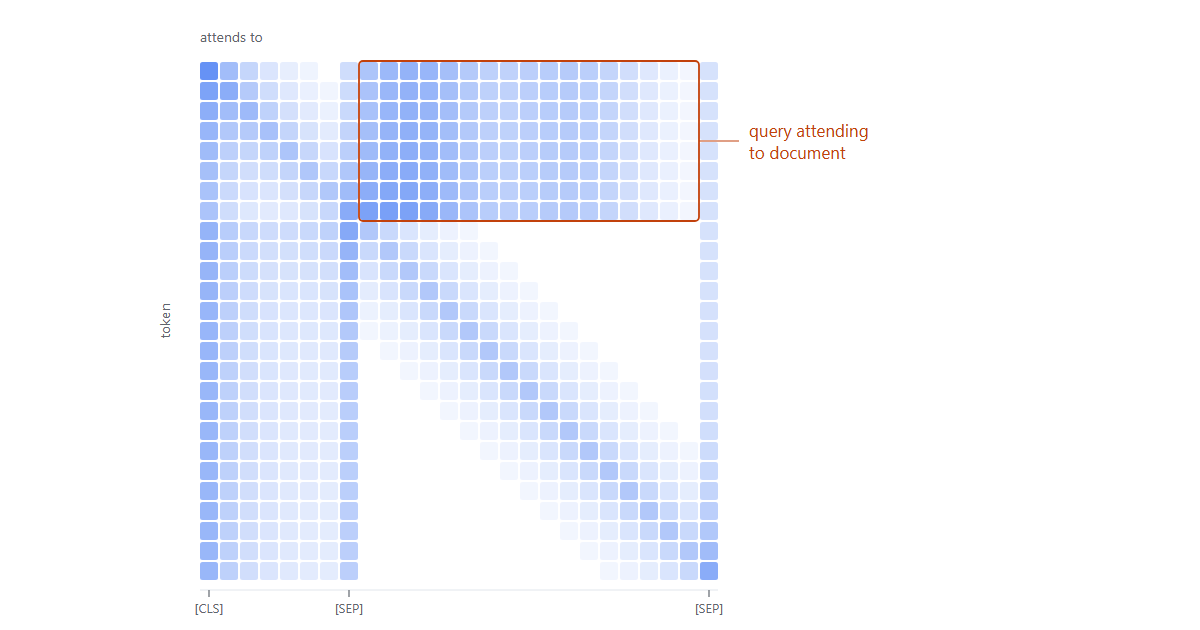
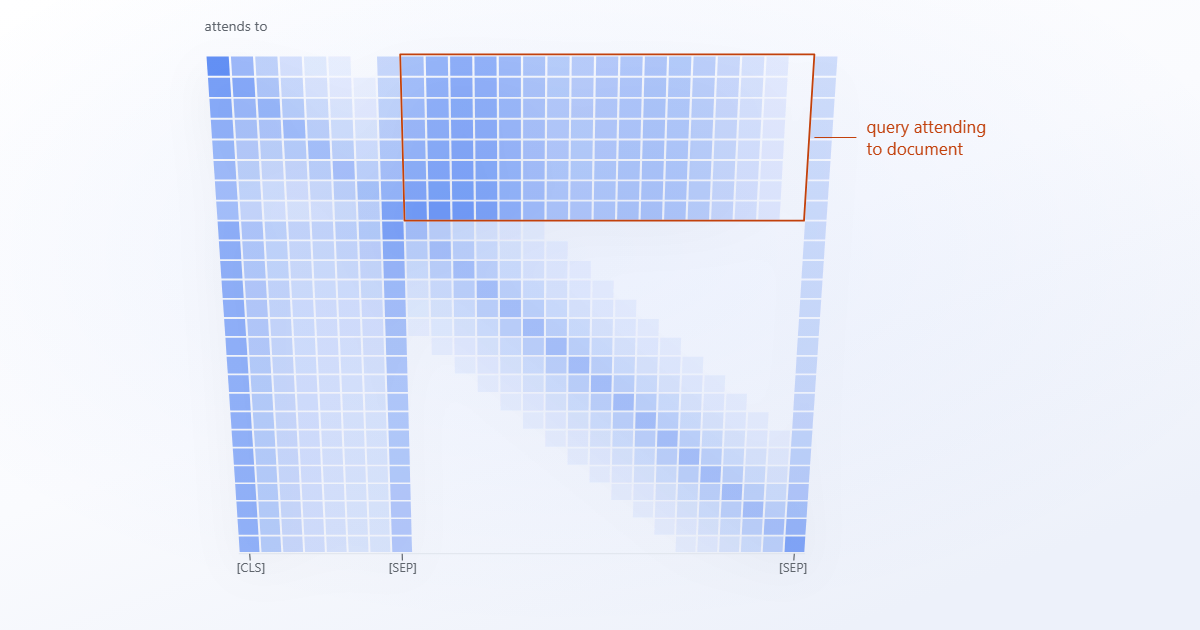
Cover: put the plane in perspective and give the page depth
Flat and dead-on read as a spreadsheet. The matrix now sits on a plane
tilted 34 degrees away from the viewer, with a soft lift under it and a
very light diagonal wash plus a barely-there blue bloom behind it.

The projection is real, not a skew. Every cell is emitted as a
quadrilateral whose four corners went through the same perspective
transform, so the far edge is genuinely narrower than the near one and
the columns converge. A CSS skew keeps rows parallel and reads as a
distorted rectangle rather than a receding surface. Doing it per-cell
costs nothing here because the cells were being generated anyway.

Two passes to get the geometry right. The first used 26 degrees with the
camera at 1250 and the plane overflowed the canvas as a funnel, with the
near edge far wider than the far one. A square matrix barely tilted is
still nearly square, and 630px of canvas leaves about 480 for it, so the
tilt has to be steeper to foreshorten it into the frame. Pushing the
camera to 3000 then makes the convergence a hint rather than a effect.

Axis ticks and their labels are projected onto the plane too, so they
lean with it instead of floating in front of it. The annotation stays
flat, which puts it in front and makes the depth read.

Changed region(s): [[0.1233, 0.0302, 0.8325, 0.9952], [0.1542, 0.9651, 0.185, 0.9952]]

diff --git a/scripts/make-cover-attention.py b/scripts/make-cover-attention.py
@@ -1,30 +1,57 @@
-"""Draw the cover as an attention matrix, with no prose on it.
+"""Draw the cover: one attention head, in perspective, with no prose on it.
 
-One head over `[CLS] query [SEP] document [SEP]`. The block where query rows
-attend to document columns is the entire reason a cross-encoder exists, so it
-is the only thing annotated.
+The subject is a square of attention weights over `[CLS] query [SEP] document
+[SEP]`. The block where query rows attend to document columns is the entire
+reason a cross-encoder exists, so it is the only thing annotated. Everything
+else on the image is an axis label.
 
-Single hue, because a two-hue heatmap encodes a category that is not there. The
-warm colour appears once, as a hairline around that block.
+Single hue. A two-colour heatmap encodes a category that is not there, so the
+warm colour appears exactly once, around that block.
+
+The plane is tilted and genuinely projected rather than skewed. Every cell is
+emitted as a quadrilateral whose four corners went through the same perspective
+transform, so the far edge is narrower than the near one and the grid converges
+the way a surface does. A CSS skew keeps rows parallel and reads as a distorted
+rectangle instead of a receding plane.
 
 Deterministic: the pattern is a fixed formula, so rerunning gives the same image.
+
+    python scripts/make-cover-attention.py
 """
+from __future__ import annotations
+
 import math
 from pathlib import Path
 
-OUT = Path("C:/Users/admin/Desktop/workspace/personal/projects/personal-blog"
-           "/public/covers/i-wrote-a-transformer-by-hand.svg")
+OUT = Path(__file__).resolve().parents[1] / "public" / "covers" / "i-wrote-a-transformer-by-hand.svg"
 
 N = 26                       # tokens per axis
-CELL, GAP = 18.0, 2.0
 SEP1, SEP2 = 7, 25           # [CLS] q0..q5 [SEP] d0..d16 [SEP]
-SIZE = N * CELL + (N - 1) * GAP
-# Matrix and annotation are one composition, centred together: 518 + 40 + 240
-# leaves an equal 200px margin either side.
-X0 = 200
-Y0 = (630 - SIZE) / 2 + 6
+STEP = 23.0                  # cell pitch on the plane, before projection
+INSET = 2.1                  # gap between cells
 
-MUTED, RULE, BLUE, WARM = "#5f656d", "#e1e6ec", "#004aef", "#c2410c"
+# A square matrix barely tilted is still nearly square, and 630px of canvas
+# leaves about 480 for it. More tilt foreshortens it enough to fit; a far
+# camera then keeps the convergence subtle rather than funnel-shaped.
+TILT = math.radians(34)      # how far the plane leans away from the viewer
+DIST = 3000.0                # camera distance; smaller exaggerates the convergence
+CX, CY = 522.0, 318.0        # where the centre of the plane lands on the canvas
+
+MUTED, RULE, BLUE, WARM = "#5f656d", "#dfe4ec", "#004aef", "#c2410c"
+SPAN = (N - 1) * STEP
+
+
+def project(u: float, v: float) -> tuple[float, float]:
+    """Plane coordinate (column, row) to canvas coordinate.
+
+    The plane is rotated about the horizontal axis, so a row further down the
+    matrix is also further away and its scale factor shrinks.
+    """
+    x = u * STEP - SPAN / 2
+    y0 = v * STEP - SPAN / 2
+    y, z = y0 * math.cos(TILT), y0 * math.sin(TILT)
+    s = DIST / (DIST + z)
+    return CX + x * s, CY + y * s
 
 
 def weight(i: int, j: int) -> float:
@@ -43,82 +70,100 @@ def weight(i: int, j: int) -> float:
         w += 0.10
     if i <= SEP1 and SEP1 < j < SEP2:
         # Two loci, not one. A query term usually matches in more than one
-        # place, and a single narrow peak left most of the outlined block
-        # empty, which made the annotation point at white space.
+        # place, and a single narrow peak left most of the outlined block empty.
         w += 0.40 * math.exp(-((j - SEP1 - 3) ** 2) / 14)
         w += 0.28 * math.exp(-((j - SEP1 - 11) ** 2) / 20)
     return min(1.0, w)
 
 
-def pos(k: int) -> float:
-    return k * (CELL + GAP)
+def quad(i: int, j: int) -> str:
+    k = INSET / STEP / 2
+    corners = [(j - 0.5 + k, i - 0.5 + k), (j + 0.5 - k, i - 0.5 + k),
+               (j + 0.5 - k, i + 0.5 - k), (j - 0.5 + k, i + 0.5 - k)]
+    return " ".join("{:.1f},{:.1f}".format(*project(u, v)) for u, v in corners)
 
 
 cells = []
 for i in range(N):
     for j in range(N):
         o = weight(i, j)
-        if o < 0.045:
+        if o < 0.05:
             continue
         cells.append(
-            f'<rect class="c" x="{X0 + pos(j):.1f}" y="{Y0 + pos(i):.1f}" '
-            f'width="{CELL}" height="{CELL}" rx="2.5" fill="{BLUE}" '
-            f'style="--o:{o:.3f};animation-delay:{(i + j) * 0.018:.2f}s"/>'
+            f'<polygon class="c" points="{quad(i, j)}" fill="{BLUE}" '
+            f'style="--o:{o:.3f};animation-delay:{(i + j) * 0.017:.2f}s"/>'
         )
 
-bx, by = X0 + pos(SEP1 + 1) - GAP / 2, Y0 - GAP / 2
-bw, bh = pos(SEP2 - SEP1 - 1), pos(SEP1 + 1)
+block_pts = [project(SEP1 + 0.5, -0.55), project(SEP2 - 0.5, -0.55),
+             project(SEP2 - 0.5, SEP1 + 0.5), project(SEP1 + 0.5, SEP1 + 0.5)]
+block = " ".join(f"{x:.1f},{y:.1f}" for x, y in block_pts)
+lead_x = block_pts[1][0]
+lead_y = (block_pts[1][1] + block_pts[2][1]) / 2
 
+ticks = ""
+for k in (0, SEP1, SEP2):
+    x1, y1 = project(k, N - 0.45)
+    x2, y2 = project(k, N - 0.05)
+    ticks += (f'<line x1="{x1:.1f}" y1="{y1:.1f}" x2="{x2:.1f}" y2="{y2:.1f}" '
+              f'stroke="{MUTED}" stroke-width="1.2"/>')
+    lx, ly = project(k, N + 0.6)
+    ticks += (f'<text x="{lx:.1f}" y="{ly:.1f}" text-anchor="middle" font-size="13" '
+              f'fill="{MUTED}">{"[CLS]" if k == 0 else "[SEP]"}</text>')
 
-def tick(k: int) -> str:
-    x = X0 + pos(k) + CELL / 2
-    return (f'<line x1="{x:.1f}" y1="{Y0 + SIZE + 10:.1f}" x2="{x:.1f}" '
-            f'y2="{Y0 + SIZE + 17:.1f}" stroke="{MUTED}" stroke-width="1.2"/>')
-
-
-def label(k: int, s: str) -> str:
-    return (f'<text x="{X0 + pos(k) + CELL / 2:.1f}" y="{Y0 + SIZE + 33:.1f}" '
-            f'text-anchor="middle">{s}</text>')
-
+edge_l, edge_r = project(-0.5, N - 0.45), project(N - 0.5, N - 0.45)
+top_l = project(-0.5, -1.0)
 
 OUT.write_text(f"""<svg xmlns="http://www.w3.org/2000/svg" viewBox="0 0 1200 630"
      font-family="-apple-system, BlinkMacSystemFont, 'Segoe UI', 'DM Sans', Roboto, sans-serif">
+  <defs>
+    <linearGradient id="bg" x1="0" y1="0" x2="0.7" y2="1">
+      <stop offset="0" stop-color="#ffffff"/>
+      <stop offset="0.55" stop-color="#fafbfe"/>
+      <stop offset="1" stop-color="#edf1fa"/>
+    </linearGradient>
+    <radialGradient id="glow" cx="0.47" cy="0.4" r="0.6">
+      <stop offset="0" stop-color="#004aef" stop-opacity="0.06"/>
+      <stop offset="1" stop-color="#004aef" stop-opacity="0"/>
+    </radialGradient>
+    <filter id="lift" x="-25%" y="-25%" width="150%" height="160%">
+      <feDropShadow dx="0" dy="18" stdDeviation="24" flood-color="#0b1a3a" flood-opacity="0.11"/>
+    </filter>
+  </defs>
   <style>
-    /* One attention head over [CLS] query [SEP] document [SEP]. The outlined
-       block is query rows attending to document columns, which is the only
-       thing a cross-encoder does that an embedding model cannot.
+    /* One attention head over [CLS] query [SEP] document [SEP], on a plane
+       tilted away from the viewer. The outlined block is query rows attending
+       to document columns, the only thing a cross-encoder does that an
+       embedding model cannot.
        14s loop: the matrix fills on a diagonal sweep, the block is outlined,
        then it rests. */
-    rect.c {{ opacity: 0; animation: fill 14s ease-in-out infinite; }}
+    polygon.c {{ opacity: 0; animation: fill 14s ease-in-out infinite; }}
     @keyframes fill {{ 0% {{ opacity: 0 }} 22%, 88% {{ opacity: var(--o) }} 100% {{ opacity: 0 }} }}
     .mark {{ opacity: 0; animation: mark 14s ease infinite; }}
     @keyframes mark {{ 0%, 34% {{ opacity: 0 }} 46%, 86% {{ opacity: 1 }} 96%, 100% {{ opacity: 0 }} }}
     @media (prefers-reduced-motion: reduce) {{
-      rect.c {{ opacity: var(--o); animation: none }}
+      polygon.c {{ opacity: var(--o); animation: none }}
       .mark {{ opacity: 1; animation: none }}
     }}
   </style>
 
-  <rect width="1200" height="630" fill="#ffffff"/>
-  <g>{''.join(cells)}</g>
+  <rect width="1200" height="630" fill="url(#bg)"/>
+  <rect width="1200" height="630" fill="url(#glow)"/>
+
+  <g filter="url(#lift)">{"".join(cells)}</g>
+
+  <line x1="{edge_l[0]:.1f}" y1="{edge_l[1]:.1f}" x2="{edge_r[0]:.1f}" y2="{edge_r[1]:.1f}" stroke="{RULE}"/>
+  {ticks}
 
   <g class="mark">
-    <rect x="{bx:.1f}" y="{by:.1f}" width="{bw:.1f}" height="{bh:.1f}" rx="4"
-          fill="none" stroke="{WARM}" stroke-width="1.8"/>
-    <line x1="{bx + bw:.1f}" y1="{by + bh / 2:.1f}" x2="{bx + bw + 40:.1f}" y2="{by + bh / 2:.1f}"
-          stroke="{WARM}" stroke-width="1.2"/>
-    <text x="{bx + bw + 50:.1f}" y="{by + bh / 2 - 4:.1f}" font-size="17" fill="{WARM}">query attending</text>
-    <text x="{bx + bw + 50:.1f}" y="{by + bh / 2 + 18:.1f}" font-size="17" fill="{WARM}">to document</text>
+    <polygon points="{block}" fill="none" stroke="{WARM}" stroke-width="1.8" stroke-linejoin="round"/>
+    <line x1="{lead_x:.1f}" y1="{lead_y:.1f}" x2="{lead_x + 42:.1f}" y2="{lead_y:.1f}" stroke="{WARM}" stroke-width="1.2"/>
+    <text x="{lead_x + 52:.1f}" y="{lead_y - 5:.1f}" font-size="17" fill="{WARM}">query attending</text>
+    <text x="{lead_x + 52:.1f}" y="{lead_y + 17:.1f}" font-size="17" fill="{WARM}">to document</text>
   </g>
 
-  <text x="{X0:.1f}" y="{Y0 - 20:.1f}" font-size="14" fill="{MUTED}">attends to</text>
-  <text x="{X0 - 30:.1f}" y="{Y0 + SIZE / 2:.1f}" font-size="14" fill="{MUTED}" text-anchor="middle"
-        transform="rotate(-90 {X0 - 30:.1f} {Y0 + SIZE / 2:.1f})">token</text>
-
-  <line x1="{X0:.1f}" y1="{Y0 + SIZE + 10:.1f}" x2="{X0 + SIZE:.1f}" y2="{Y0 + SIZE + 10:.1f}" stroke="{RULE}"/>
-  {tick(0)}{tick(SEP1)}{tick(SEP2)}
-  <g font-size="13" fill="{MUTED}">{label(0, '[CLS]')}{label(SEP1, '[SEP]')}{label(SEP2, '[SEP]')}</g>
+  <text x="{top_l[0]:.1f}" y="{top_l[1] - 14:.1f}" font-size="14" fill="{MUTED}">attends to</text>
 </svg>
 """, encoding="utf-8")
 
-print(f"  {OUT.name}: {OUT.stat().st_size / 1024:.1f} KB, {len(cells)} cells, grid {SIZE:.0f}px")
+print(f"  {OUT.name}: {OUT.stat().st_size / 1024:.1f} KB, {len(cells)} cells, "
+      f"tilt {math.degrees(TILT):.0f} deg, camera {DIST:.0f}")
